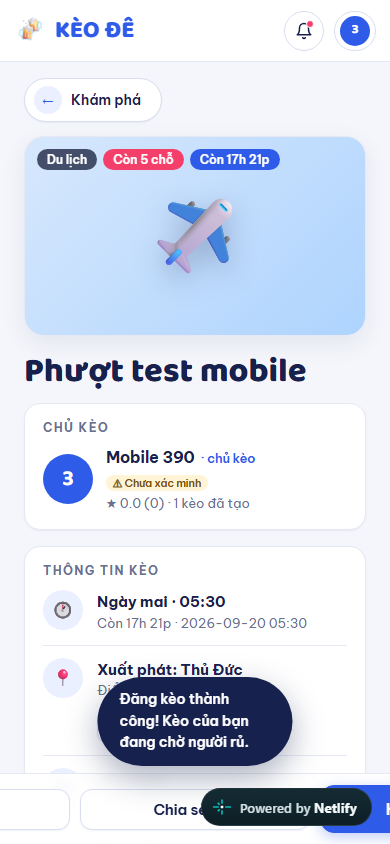
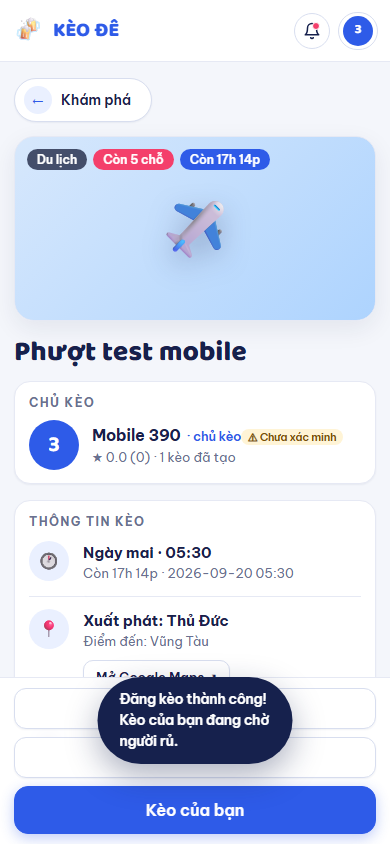
FIX CHÍNH: field members → joined (app + rules) — đây là nguyên nhân join bị chặn trên cloud

diff --git a/keo-de.html b/keo-de.html
@@ -1411,13 +1411,13 @@ async function toggleJoin(id){
   const i=p.joined.findIndex(m=>m.uid===session.id);
   const member={uid:session.id,name:profile.name,color:profile.color,picture:profile.picture||'',rating:'0.0'};
   if(i>0){
-    if(MODE==='cloud'){try{await db.collection('keos').doc(String(id)).update({members:firebase.firestore.FieldValue.arrayRemove(p.joined[i])});}catch(e){toast('Lỗi cloud: '+e.message);return;}}
+    if(MODE==='cloud'){try{await db.collection('keos').doc(String(id)).update({joined:firebase.firestore.FieldValue.arrayRemove(p.joined[i])});}catch(e){toast('Lỗi cloud: '+e.message);return;}}
     else{p.joined.splice(i,1);save('keode.posts.v2',KEO);}
     toast('Đã huỷ yêu cầu tham gia.');
   }else if(i===0){toast('Bạn là chủ kèo này mà!');return;}
   else{
     if(p.joined.length>=p.total){toast('Kèo đã đủ người rồi — hẹn kèo khác nhé!');return;}
-    if(MODE==='cloud'){try{await db.collection('keos').doc(String(id)).update({members:firebase.firestore.FieldValue.arrayUnion(member)});}catch(e){toast('Lỗi cloud: '+e.message);return;}}
+    if(MODE==='cloud'){try{await db.collection('keos').doc(String(id)).update({joined:firebase.firestore.FieldValue.arrayUnion(member)});}catch(e){toast('Lỗi cloud: '+e.message);return;}}
     else{p.joined.push(member);save('keode.posts.v2',KEO);}
     toast('Đã xin tham gia! Chờ chủ kèo duyệt nhé.');
   }

diff --git a/scripts/probe-rect.js b/scripts/probe-rect.js
@@ -5,6 +5,7 @@ const uid = Date.now();
 const ctx = await b.newContext({ viewport: { width: 390, height: 844 }, isMobile: true, hasTouch: true });
 const p = await ctx.newPage();
 await p.goto('https://keode.netlify.app/', { waitUntil: 'networkidle' });
+await p.addStyleTag({ content: '#nl-badge-frame,[data-nl-ready]{display:none!important}' });
 await p.evaluate(() => localStorage.clear());
 await p.fill('#regName', 'Rect Probe');
 await p.fill('#regEmail', `rect-${uid}@keo.vn`);
